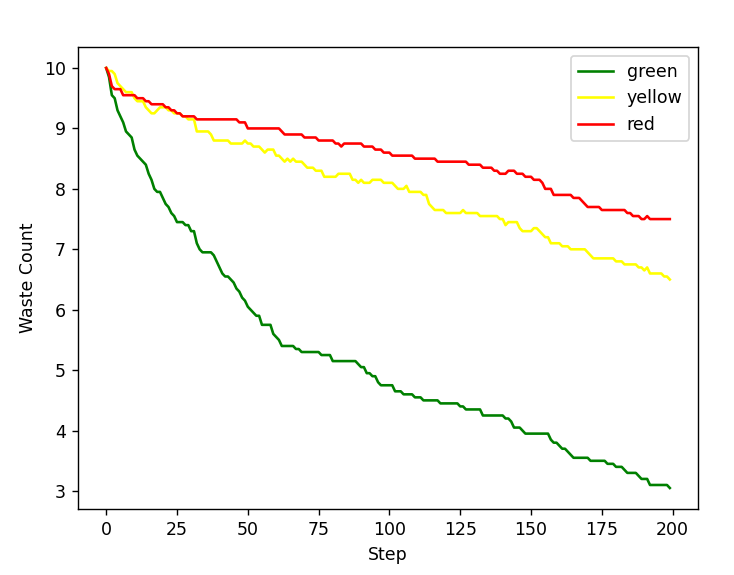
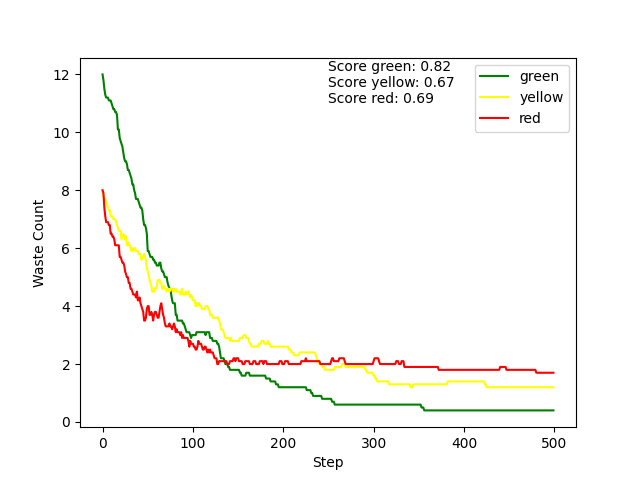
readme+batch_better

diff --git a/batch_simulation.py b/batch_simulation.py
@@ -1,26 +1,30 @@
 import matplotlib.pyplot as plt
 import numpy as np
+import argparse
+import yaml
 
 from agents import RandomGreenAgent, RandomRedAgent, RandomYellowAgent, GreenAgent, YellowAgent, RedAgent
 from env import Waste
 from model import RobotMission
 
 
-def run_batch_simu(num_simulations=10, random_agents=True, steps=1000):
+def run_batch_simu(num_simulations, random_agents, steps):
     mean_waste_counts = {"green": [], "yellow": [], "red": []}
+    with open("batch_config.yaml", "r") as f:
+        config = yaml.safe_load(f)
     for _ in range(num_simulations):
         model = RobotMission(
             n_agents={
-                "green": 3,
-                "yellow": 3,
-                "red": 3,
+                "green": config["green_robots"],
+                "yellow": config["yellow_robots"],
+                "red": config["red_robots"],
             },
             n_wastes={
-                "green": 10,
-                "yellow": 10,
-                "red": 10,
+                "green": config["green_wastes"],
+                "yellow": config["yellow_wastes"],
+                "red": config["red_wastes"],
             },
-            grid_size=20,
+            grid_size=config["grid_size"],
             use_random_agents=random_agents,
         )
         waste_counts = visualize_simulation(model, steps=steps, use_random_agents=random_agents)
@@ -42,8 +46,6 @@ def visualize_simulation(model, steps, use_random_agents):
     for step in range(steps):
         model.step()
         green_count, yellow_count, red_count = 0, 0, 0
-
-        # Draw waste and robot agents
         for agent in model.agents:
             if isinstance(agent, Waste) and agent.pos is not None:
                 color = ["green", "yellow", "red"][agent.color_waste]
@@ -68,7 +70,31 @@ def visualize_simulation(model, steps, use_random_agents):
 
 
 if __name__ == "__main__":
-    mean_waste_counts = run_batch_simu(num_simulations=20, random_agents=False, steps=200)
+    argparser = argparse.ArgumentParser()
+    argparser.add_argument(
+        "--n_sim",
+        type=int,
+        default=10,
+        help="Number of simulations to run",
+    )
+    argparser.add_argument(
+        "--steps",
+        type=int,
+        default=1000,
+        help="Number of steps to run the simulation"
+    )
+    argparser.add_argument(
+        "--do_random",
+        action="store_true",
+        help="Use random agents",
+        default=False
+    )
+    args = argparser.parse_args()
+    mean_waste_counts = run_batch_simu(
+        num_simulations=args.n_sim,
+        random_agents=args.do_random,
+        steps=args.steps
+    )
     waste_counts_green = mean_waste_counts["green"]
     waste_counts_yellow = mean_waste_counts["yellow"]
     waste_counts_red = mean_waste_counts["red"]
@@ -96,7 +122,23 @@ if __name__ == "__main__":
         color="red",
     )
 
+    #Compute the AUC for each color
+    auc_green = np.trapz(mean_waste_counts_green, dx=1) / (args.steps*mean_waste_counts_green[0])
+    auc_yellow = np.trapz(mean_waste_counts_yellow, dx=1) / (args.steps*mean_waste_counts_yellow[0])
+    auc_red = np.trapz(mean_waste_counts_red, dx=1) / (args.steps*mean_waste_counts_red[0])
+    max_wastes = max(
+        mean_waste_counts_green[0],
+        mean_waste_counts_yellow[0],
+        mean_waste_counts_red[0],
+    )
     plt.xlabel("Step")
     plt.ylabel("Waste Count")
+    plt.text(
+        args.steps / 2,
+        max_wastes - 1,
+        f"Score green: {1-auc_green:.2f}\nScore yellow: {1-auc_yellow:.2f}\nScore red: {1-auc_red:.2f}",
+    )
     plt.legend()
     plt.show()
+
+    

diff --git a/README.md b/README.md
@@ -37,13 +37,37 @@ Click on `Close simulation` in the UI to stop the script or run it again to make
 
 To display an average of the wastes evolution for a large number of simulations, you can run
 ```bash
-python batch_simulation.py
+python batch_simulation.py --n_sim=20 --steps=500 --do_random
 ```
-The UI and rendering of the grid will be disabled and a final plot will be displayed at the end of the simulations.
+Arguments:
+- `n_sim`: number of simulations to compute the average at each step
+- `do_random`: use random agents or not (if not, agents with the implemented heuristic will be used)
+- `steps`: number of steps for each simulation
+
+The UI and rendering of the grid will be disabled and a final plot will be displayed at the end of the simulations. AUC score is also displayed as (1-AUC) to have a metric to compare globally the behaviour of multiple agents.
+
+Other settings such as the number of robots, wastes and the grid size can be defined in `batch_config.yaml` which takes the following format:
+```yaml
+green_robots : 3
+yellow_robots : 3
+red_robots : 3
+green_wastes : 12
+yellow_wastes : 8
+red_wastes : 8
+grid_size : 20
+```
+
+Some results for the previously defined configuration are shown here:
+
+Heuristic agents:
 
 ![batch_image](images/batch_image.png)
 
-## Explications :memo:
+Random agents:
+
+![batch_image_random](images/batch_image_random.png)
+
+## Explanations :memo:
 
 ### Architecture chosen
 
